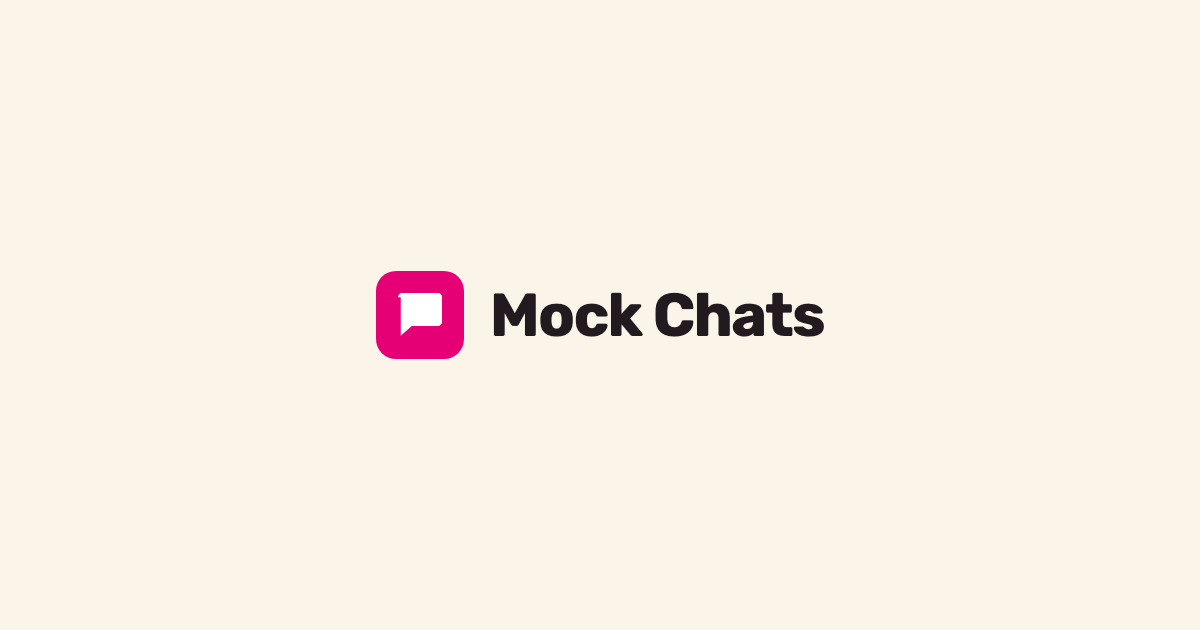
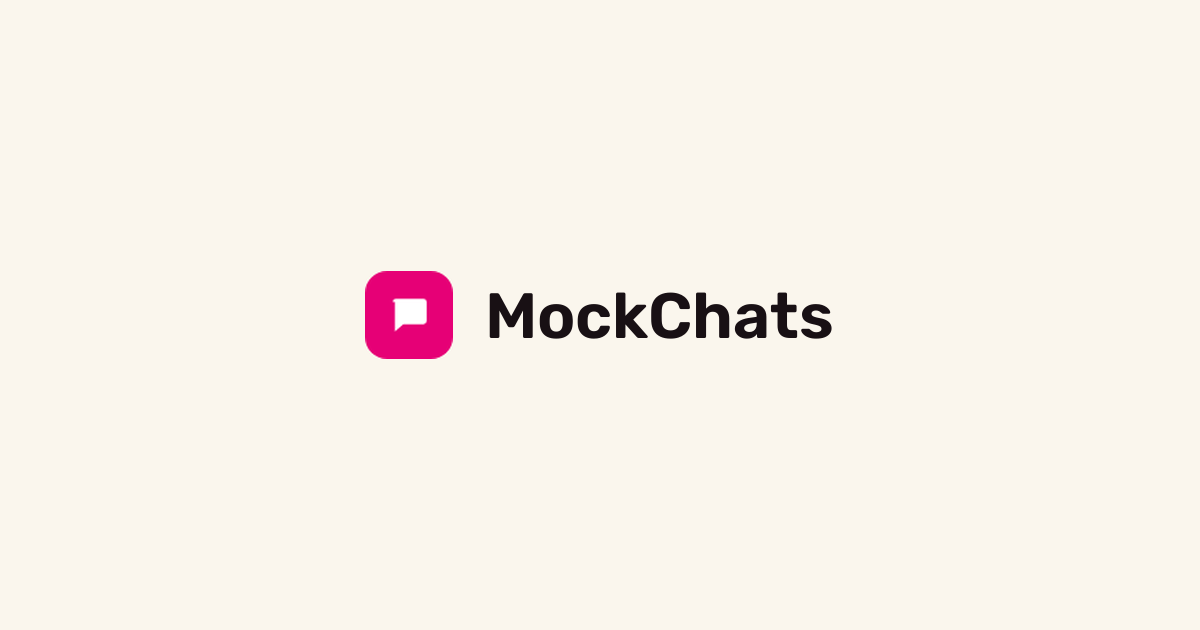
Name fixes

Changed region(s): [[0.2775, 0.4222, 0.7092, 0.573]]

diff --git a/app/work/mockchats/page.tsx b/app/work/mockchats/page.tsx
@@ -9,7 +9,7 @@ import { AUTHOR_JSON_LD, BASE_URL, WORK_TITLE } from "@/app/metadata";
 const slug = "mockchats";
 
 export const metadata = {
-  title: "Mock Chats",
+  title: "MockChats",
   description:
     "Web app for creating realistic chat videos. Script a conversation, style it like a real messaging thread and export a vertical video for TikTok, Instagram Reels and YouTube Shorts.",
 } satisfies Metadata;
@@ -62,7 +62,7 @@ export default function MockChats() {
       <div className="px-4 max-w-xl mx-auto w-full">
         <Image
           src="/mockchats/banner.png"
-          alt="Mock Chats Logo"
+          alt="MockChats Logo"
           className="rounded-lg w-full"
           width={1200}
           height={630}
@@ -72,11 +72,11 @@ export default function MockChats() {
 
       <div className="flex flex-col gap-4 w-full max-w-xl mx-auto px-4">
         <h1 className="text-2xl font-bold text-gray-800 tracking-tight">
-          Mock Chats
+          MockChats
         </h1>
 
         <p className="text-gray-600 text-lg">
-          Mock Chats is a web app for creating realistic chat videos. Creators
+          MockChats is a web app for creating realistic chat videos. Creators
           script a conversation, style it like a real messaging thread, and
           export a vertical video ready for TikTok, Instagram Reels and YouTube
           Shorts.
@@ -97,7 +97,7 @@ export default function MockChats() {
       <div className="px-4">
         <ExpandableImage
           src="/mockchats/home.png"
-          alt="Mock Chats homepage with a chat video preview"
+          alt="MockChats homepage with a chat video preview"
           className="rounded-lg mx-auto border-1 border-gray-200"
           width={2880}
           height={1566}
@@ -116,7 +116,7 @@ export default function MockChats() {
           passed with viewers. Audiences recognise a real messaging app
           instantly, from the wallpaper to the read receipts, and a familiar
           conversation feels far more genuine than an invented interface. So
-          Mock Chats replicates the real thing closely, down to typing
+          MockChats replicates the real thing closely, down to typing
           indicators, voice notes and reactions.
         </p>
       </div>
@@ -124,7 +124,7 @@ export default function MockChats() {
       <div className="px-4">
         <ExpandableImage
           src="/mockchats/editor.png"
-          alt="Mock Chats editor with message list and live phone preview"
+          alt="MockChats editor with message list and live phone preview"
           className="rounded-lg mx-auto border-1 border-gray-200"
           width={2880}
           height={1800}
@@ -151,7 +151,7 @@ export default function MockChats() {
       <div className="px-4">
         <ExpandableImage
           src="/mockchats/exports.png"
-          alt="Mock Chats exports page with a rendered chat video"
+          alt="MockChats exports page with a rendered chat video"
           className="rounded-lg mx-auto border-1 border-gray-200"
           width={2880}
           height={1800}
@@ -174,7 +174,7 @@ export default function MockChats() {
       <div className="px-4">
         <ExpandableImage
           src="/mockchats/pricing.png"
-          alt="Mock Chats pricing plans"
+          alt="MockChats pricing plans"
           className="rounded-lg mx-auto border-1 border-gray-200"
           width={2560}
           height={1464}

diff --git a/app/sitemap.ts b/app/sitemap.ts
@@ -9,7 +9,7 @@ export default function sitemap(): MetadataRoute.Sitemap {
     { url: `${BASE_URL}/work`, lastModified: buildTime },
     { url: `${BASE_URL}/contact`, lastModified: buildTime },
     {
-      url: `${BASE_URL}/work/mock-chats`,
+      url: `${BASE_URL}/work/mockchats`,
       lastModified: buildTime,
     },
     {

diff --git a/app/work/page.tsx b/app/work/page.tsx
@@ -13,7 +13,7 @@ export const metadata: Metadata = {
 
 const projects = [
   {
-    title: "Mock Chats",
+    title: "MockChats",
     description:
       "Web app for creating realistic chat videos for social media.",
     date: "2026 - Present",